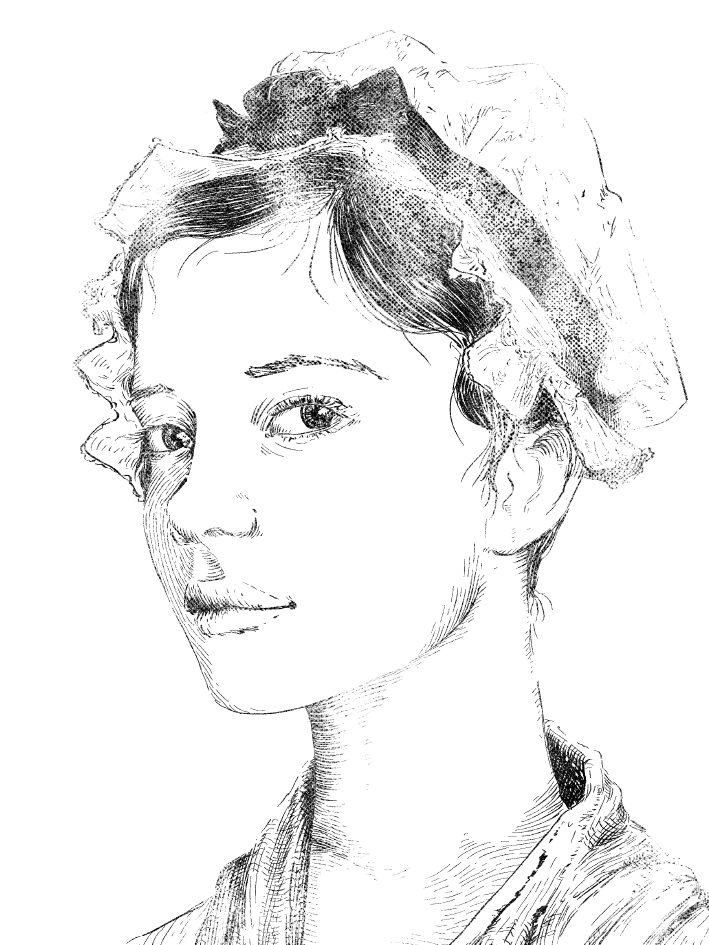
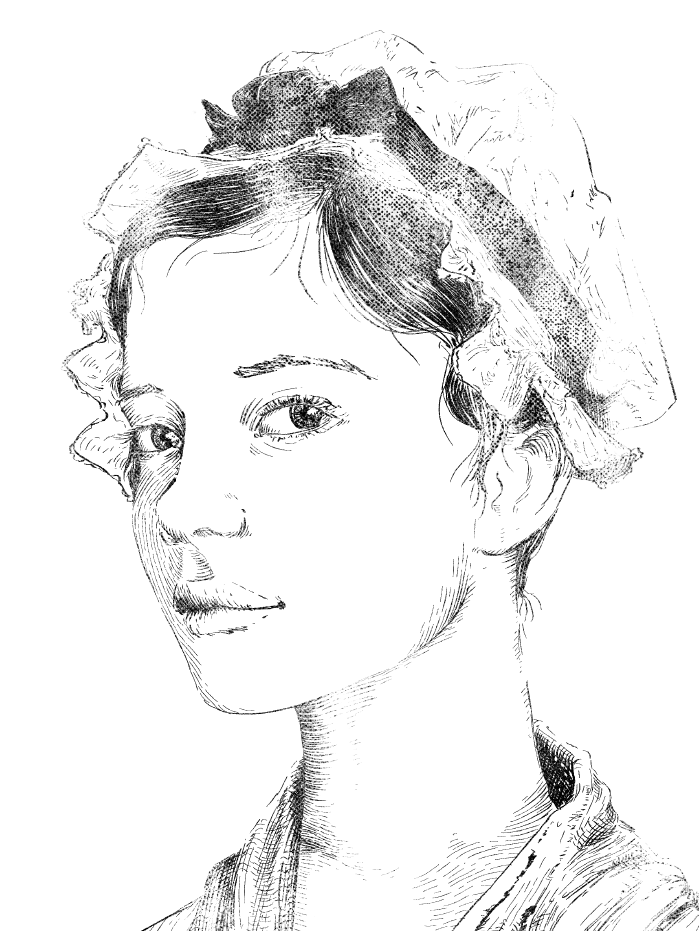
old fashioned

diff --git a/docs/index.html b/docs/index.html
@@ -104,7 +104,7 @@ Aujourd'hui, elle m'offre un temps de respiration le soir : un terrain d'explo
     </div>
 </section>
 	
-<section class="spotlight style1 orient-left content-align-left image-position-center onscroll-image-fade-in" id="spotlight_old">
+<section class="spotlight style2 orient-left content-align-left image-position-center onscroll-image-fade-in" id="spotlight_old">
     <div class="content">
         <h2>Old fashioned</h2>
         <p>Années 20-30, Steampunk, Jazz et vieux journaux : une plongée uchronique dans un style inspiré <strong>des gravures et de l'imprimerie ancienne</strong>, ainsi que de l'Art Nouveau / Art Déco.
@@ -114,7 +114,7 @@ Aujourd'hui, elle m'offre un temps de respiration le soir : un terrain d'explo
         </ul>
     </div>
     <div class="image">
-        <img src="images/Chronos/montre_gousset_1_1.png" alt="" />
+        <img src="images/Chronos/Bernard_1250.png" alt="" />
     </div>
 </section>
 	<hr>
